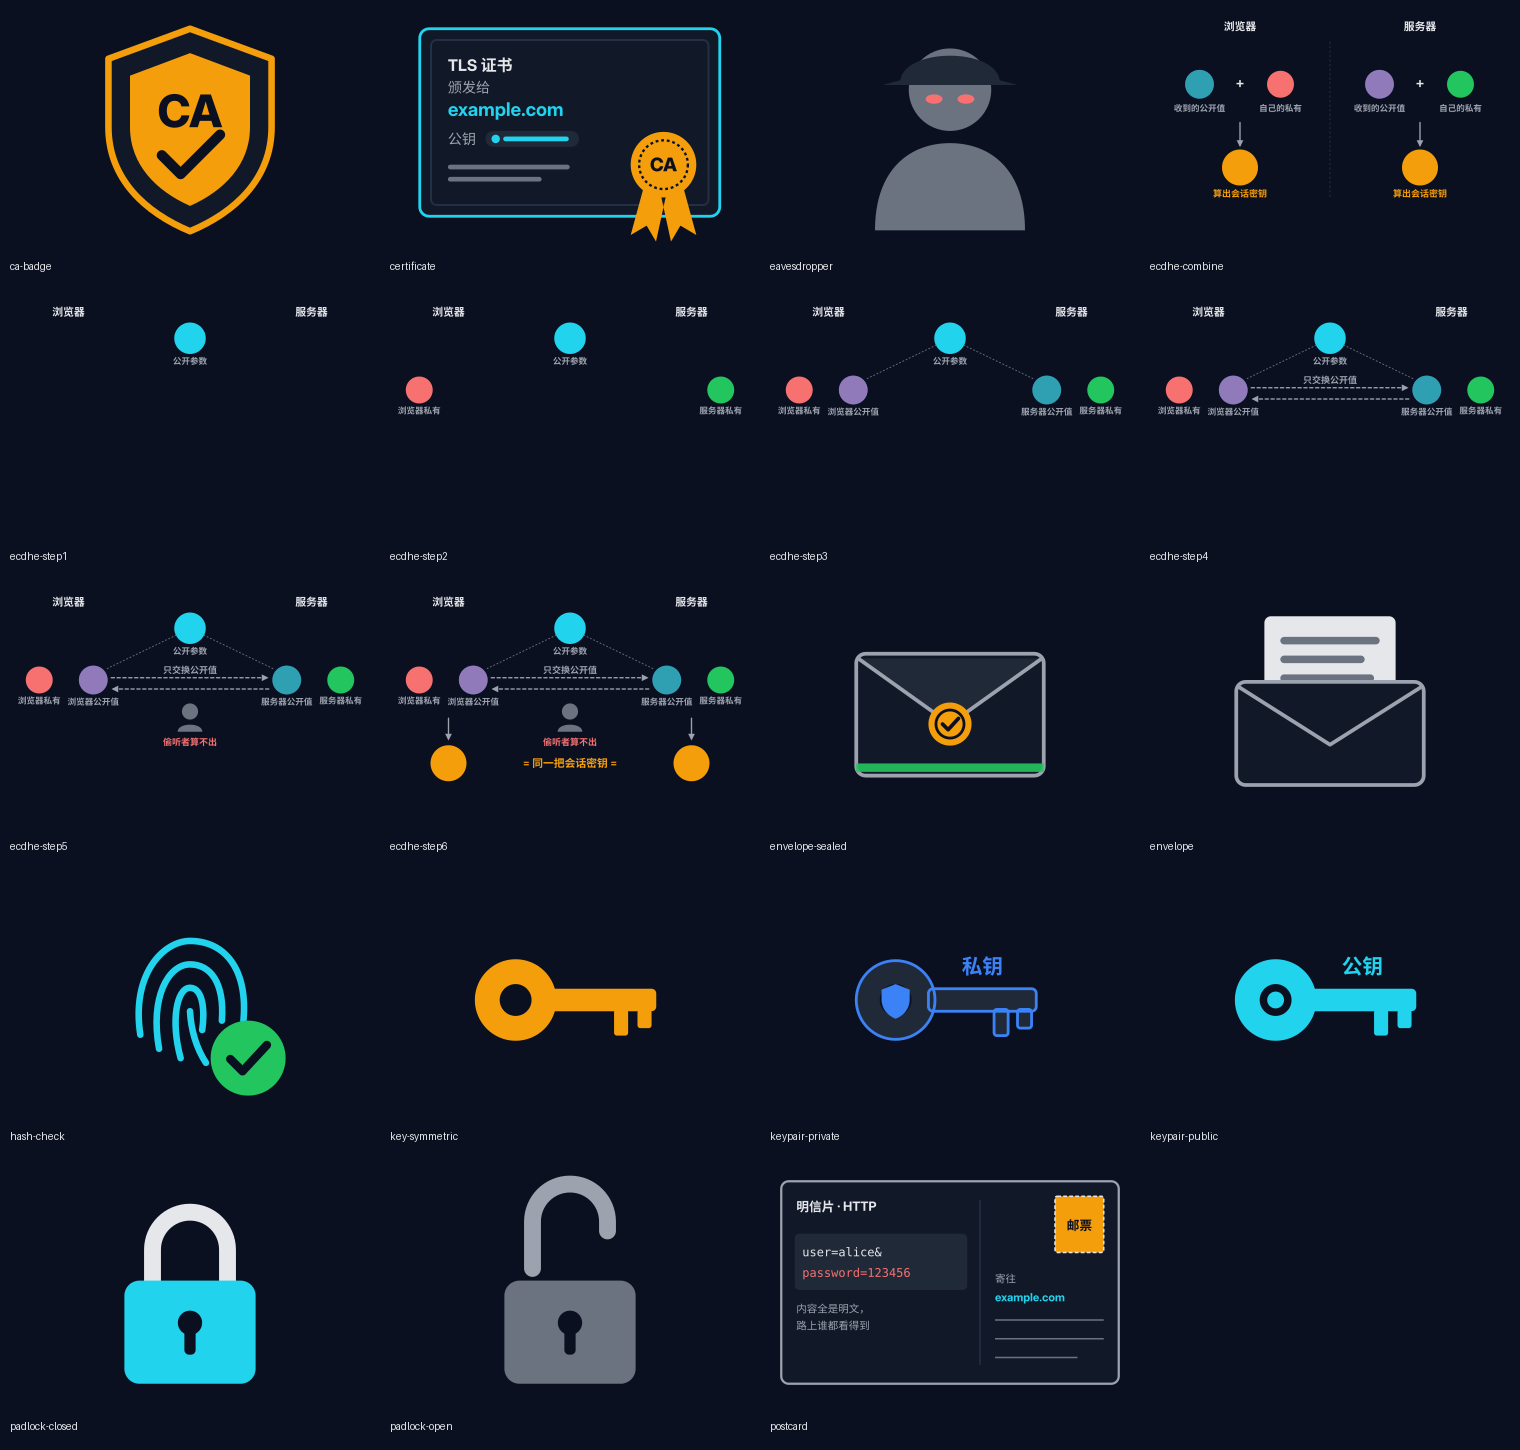
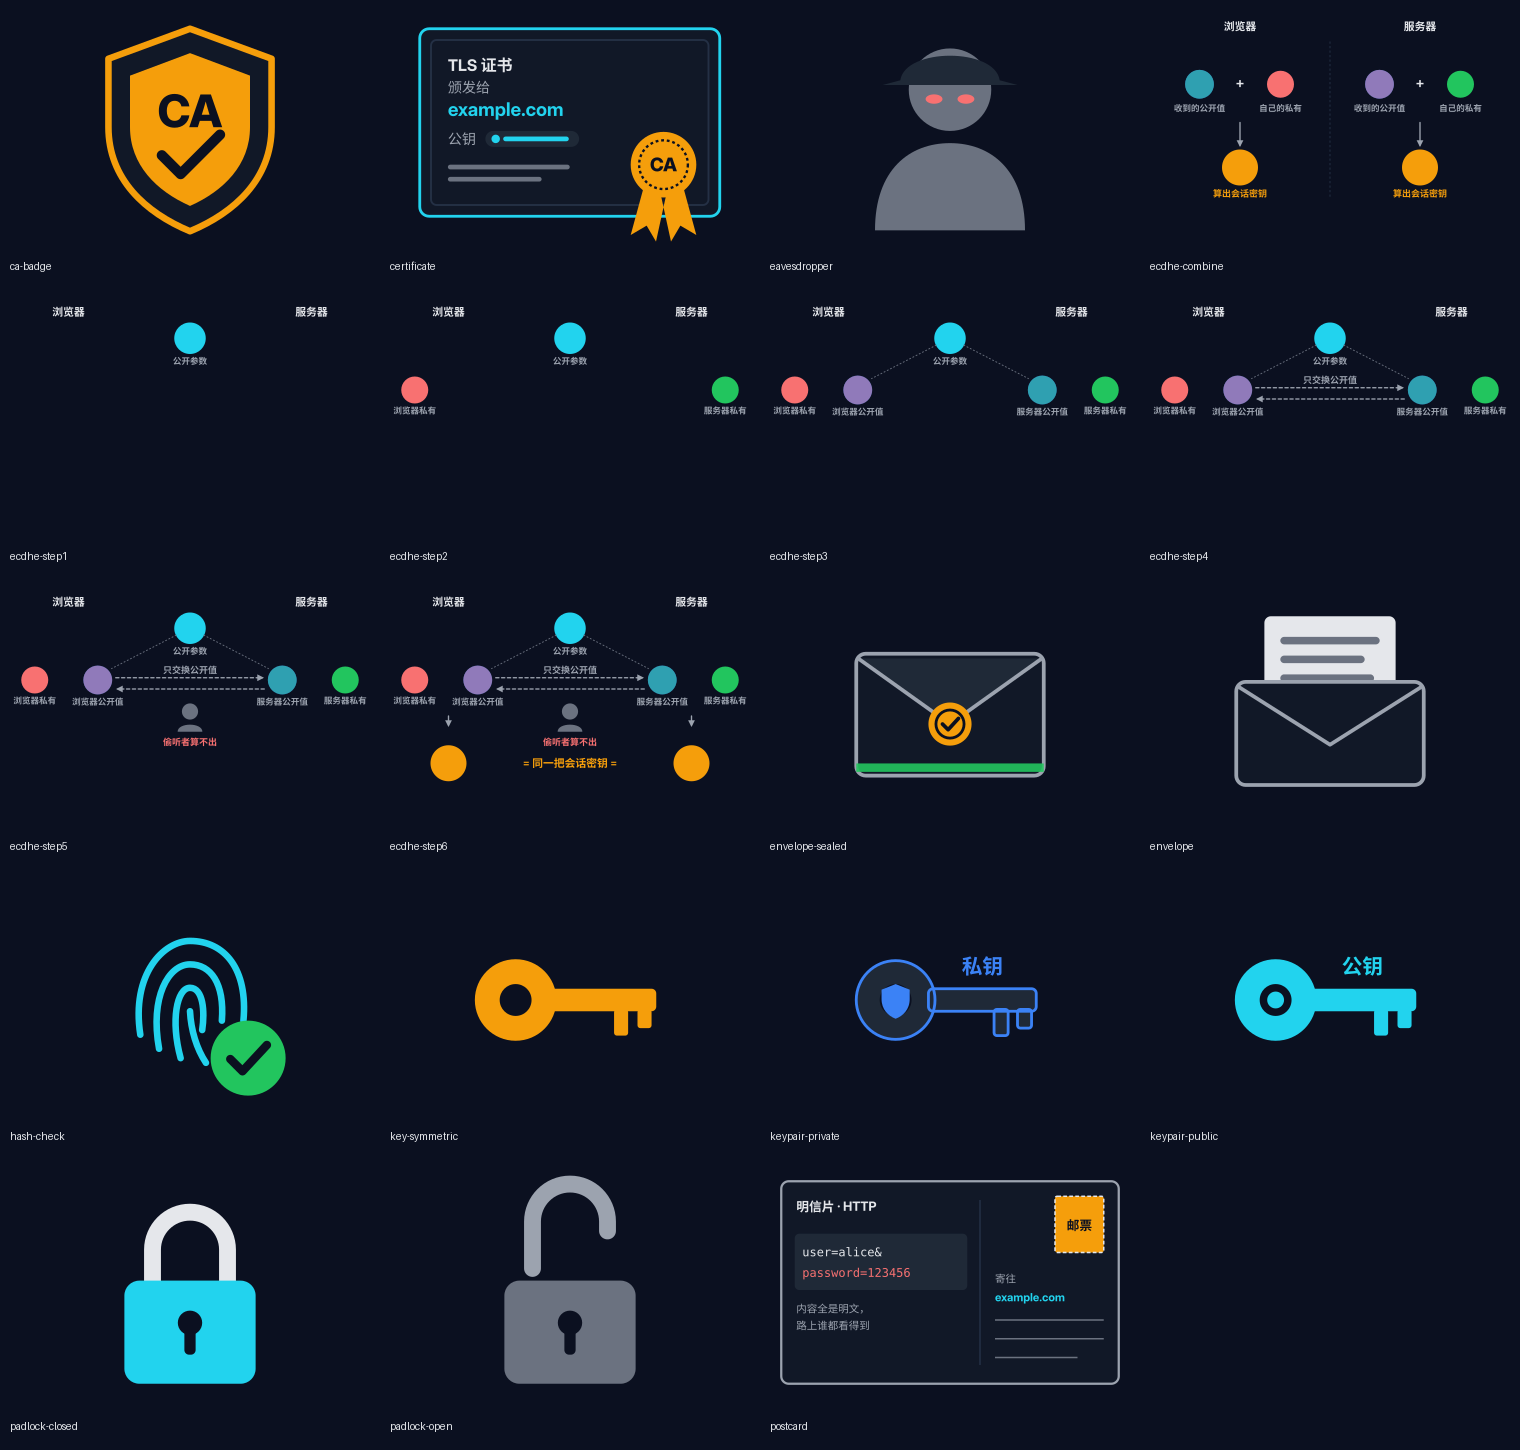
draft(https): 分镜终版修订（ECDHE 资产、storyboard、gen 脚本；移除 assets/gen_assets.py）

diff --git a/episodes/https/gen.py b/episodes/https/gen.py
@@ -52,10 +52,10 @@ def shots_for(si,L):
         a1=[fade("pairT"),fade("pubL",10,25),fade("pubT",20,32),fade("priL",L[0]//2,L[0]//2+15),fade("priT",L[0]//2+10,L[0]//2+22),mv("priL","opacity",L[0]-40,L[0]-20,1,0.7)]
         n=L[1]; sp=n-60; _s=subs(PARTS[1],n); st=_s[1]["from"]; st2=_s[2]["from"]  # 状态切点=字幕分句起点；旁白后金钥匙停 60 帧
         e2=[A("ecdheA","ecdhe-step4",226,80,1468,780,fit="contain",state="交换公开值"),A("ecdheB","ecdhe-combine",226,80,1468,780,fit="contain",state="各自把收到的公开值与自己的私有值合成"),
-            A("ecdheC","ecdhe-step6",226,80,1468,780,fit="contain",state="得到同一把金色钥匙"),A("keyGold","key-symmetric",810,250,300,300),
+            A("ecdheC","ecdhe-step6",226,80,1468,780,fit="contain",state="得到同一把金色钥匙"),A("keyL","key-symmetric",411,566,160,160),A("keyR","key-symmetric",1347,566,160,160),
             T("stA",660,100,600,50,"① 交换公开值",36,P['primary'],align="center"),T("stB",660,100,600,50,"② 各自合成",36,P['primary'],align="center"),T("stC",660,100,600,50,"③ 同一把钥匙",36,P['accent'],align="center")]
         a2=[fade("ecdheA",0,10),fade("stA",0,10),out("stA",st-6,st),fade("ecdheB",st,st+10),fade("stB",st,st+10),out("stB",st2-6,st2),
-            fade("ecdheC",st2,st2+10),fade("stC",st2,st2+10),mv("keyGold","scale",sp-20,sp,0,1,"spring"),mv("keyGold","rotate",sp,n-1,0,8)]
+            fade("ecdheC",st2,st2+10),fade("stC",st2,st2+10),mv("keyL","scale",sp-20,sp,0,1,"spring"),mv("keyR","scale",sp-20,sp,0,1,"spring"),mv("keyL","rotate",sp,n-1,0,8),mv("keyR","rotate",sp,n-1,0,8)]
         e3=[A("keyGold","key-symmetric",200,300,260,260),T("hyb1",520,300,1200,56,"非对称方式：协商出会话密钥（慢，只做一次）",40,P['primary']),A("box","envelope-sealed",520,420,240,240),T("hyb2",820,500,900,56,"对称加密：传输真正的数据（快）",40,P['success'])]
         a3=[fade("keyGold"),fade("hyb1",L[2]//4,L[2]//4+15),fade("box",L[2]//2,L[2]//2+12),fade("hyb2",L[2]//2+10,L[2]//2+25),mv("box","x",L[2]//2+30,L[2]-30,520,1440)]
         return [(e1,a1),(e2,a2),(e3,a3)]
@@ -138,7 +138,7 @@ for si,s in enumerate(narr):
     g+=D
 meta=dict(title="《HTTPS 为什么安全？》",episode=2,width=1920,height=1080,fps=30,durationInFrames=g,style="深色背景+蓝青高光扁平2D（沿用第一期）",palette=P,font="Noto Sans SC",
   safeArea=dict(margin=80,subtitleBand=[900,980],contentMaxY=860),
-  notes=f"帧数已按第一期 +19% 实测校准：timing.json 24 镜头合计 5.53 字/秒（公式 字数/4.2 的估算在 +19% 下偏长约 30%），每镜头 = round(字数/5.53×30)+30 帧停顿；scene.estimateFormulaFrames 保留原公式值供对照。配音实测后用 align.py 对齐。from 为全局帧，subtitles 与 keyframes 帧相对镜头；transition 作用于镜头出场。image 元素 asset 路径相对 episodes/https/。密钥交换按 ECDHE（ECDHE 镜头合并为 3 个关键状态 step4 / ecdhe-combine / step6，各约 1/3 旁白，旁白后金钥匙停 60 帧；step1–6 文件保留），双方交换公开参数各自算出会话密钥。画面文字为中文，英文仅 CA/TLS/HTTP/HTTPS；字幕随旁白保留 Wi-Fi、ClientHello、ServerHello、ECDHE、AEAD 原词。")
+  notes=f"帧数已按第一期 +19% 实测校准：timing.json 24 镜头合计 5.53 字/秒（公式 字数/4.2 的估算在 +19% 下偏长约 30%），每镜头 = round(字数/5.53×30)+30 帧停顿；scene.estimateFormulaFrames 保留原公式值供对照。配音实测后用 align.py 对齐。from 为全局帧，subtitles 与 keyframes 帧相对镜头；transition 作用于镜头出场。image 元素 asset 路径相对 episodes/https/。密钥交换按 ECDHE（ECDHE 镜头合并为 3 个关键状态 step4 / ecdhe-combine / step6，状态切点跟随字幕分句（约 76/70/88 帧），旁白后金钥匙停 60 帧；两把相同金钥匙 keyL(411,566) / keyR(1347,566) 各 160×160，紧贴 step6 底部两个橙色圆正上方（金色钥匙放进同色圆内看不清），呼应“= 同一把会话密钥 =”，含 8° 慢转不压文字；step1–6 文件保留），双方交换公开参数各自算出会话密钥。画面文字为中文，英文仅 CA/TLS/HTTP/HTTPS；字幕随旁白保留 Wi-Fi、ClientHello、ServerHello、ECDHE、AEAD 原词。")
 assets=dict(reuse=[dict(id="browser",desc="第一期浏览器窗口",usedIn=["plaintext","symmetric"]),dict(id="server",desc="第一期服务器图标",usedIn=["plaintext","symmetric"]),dict(id="seqDiagram",desc="第一期握手时序图样式",usedIn=["handshake"]),dict(id="subtitle",desc="字幕层")],
  new=[dict(id=f.stem,file=f"assets/{f.name}") for f in sorted((HERE/"assets").glob("*.svg")) if f.stem!="ecdhe-mix"])
 json.dump(dict(meta=meta,assets=assets,scenes=scenes),open(HERE/"storyboard.json","w"),ensure_ascii=False,indent=1)

diff --git a/episodes/https/gen_assets.py b/episodes/https/gen_assets.py
@@ -1,8 +1,10 @@
 import os
 T=dict(bg="#0B1020",surface="#111827",s2="#1F2937",border="#243045",text="#E5E7EB",text2="#9CA3AF",muted="#6B7280",primary="#22D3EE",secondary="#3B82F6",success="#22C55E",accent="#F59E0B",danger="#F87171")
 F='font-family="system-ui, -apple-system, \'PingFang SC\', \'Noto Sans CJK SC\', sans-serif"'
+OUT=os.path.join(os.path.dirname(os.path.abspath(__file__)),"assets")
+os.makedirs(OUT,exist_ok=True)
 def svg(name,vb,body):
-    open(name,"w").write(f'<svg xmlns="http://www.w3.org/2000/svg" viewBox="{vb}" width="{vb.split()[2]}" height="{vb.split()[3]}">\n{body}\n</svg>\n')
+    open(os.path.join(OUT,name),"w").write(f'<svg xmlns="http://www.w3.org/2000/svg" viewBox="{vb}" width="{vb.split()[2]}" height="{vb.split()[3]}">\n{body}\n</svg>\n')
 def key(c,stroke,x=0,y=0,id="key",teeth=True):
     return f'''<g id="{id}" transform="translate({x} {y})">
  <circle cx="140" cy="256" r="84" fill="{c}"/><circle cx="140" cy="256" r="34" fill="{T['bg']}"/>
@@ -57,11 +59,11 @@ def ecdhe(step):
     parts=[f'<defs><marker id="ah" viewBox="0 0 10 10" refX="7" refY="5" markerWidth="5" markerHeight="5" orient="auto"><path d="M0 0 L10 5 L0 10z" fill="{T['text2']}"/></marker></defs>',
       L(260,70,"浏览器",T['text'],48)+L(1340,70,"服务器",T['text'],48)]
     if step>=1: parts.append(f'<g id="shared-param">{blob(800,170,70,T["primary"],"param")}{L(800,285,"公开参数",T["text2"])}</g>')
-    if step>=2: parts.append(f'<g id="left-secret">{blob(130,400,60,T["danger"],"a-secret")}{L(130,505,"浏览器私有",T["text2"])}</g><g id="right-secret">{blob(1470,400,60,T["success"],"b-secret")}{L(1470,505,"服务器私有",T["text2"])}</g>')
-    if step>=3: parts.append(f'<g id="mix" stroke="{T["muted"]}" stroke-width="4" stroke-dasharray="8 8" fill="none"><path d="M740 200 L430 350"/><path d="M860 200 L1170 350"/></g><g id="left-public">{blob(370,400,64,T["secondary"],"a-pub")}<circle cx="370" cy="400" r="64" fill="{T["danger"]}" opacity="0.45"/>{L(370,510,"浏览器公开值",T["text2"])}</g><g id="right-public">{blob(1230,400,64,T["secondary"],"b-pub")}<circle cx="1230" cy="400" r="64" fill="{T["success"]}" opacity="0.45"/>{L(1230,510,"服务器公开值",T["text2"])}</g>')
-    if step>=4: parts.append(f'<g id="exchange" stroke-dasharray="14 12">{arrow(450,390,1140,390,T["text2"])}{arrow(1150,440,460,440,T["text2"])}</g>'+L(800,370,"只交换公开值",T["text2"],40))
+    if step>=2: parts.append(f'<g id="left-secret">{blob(110,400,60,T["danger"],"a-secret")}{L(110,505,"浏览器私有",T["text2"])}</g><g id="right-secret">{blob(1490,400,60,T["success"],"b-secret")}{L(1490,505,"服务器私有",T["text2"])}</g>')
+    if step>=3: parts.append(f'<g id="mix" stroke="{T["muted"]}" stroke-width="4" stroke-dasharray="8 8" fill="none"><path d="M740 200 L450 350"/><path d="M860 200 L1150 350"/></g><g id="left-public">{blob(390,400,64,T["secondary"],"a-pub")}<circle cx="390" cy="400" r="64" fill="{T["danger"]}" opacity="0.45"/>{L(390,510,"浏览器公开值",T["text2"])}</g><g id="right-public">{blob(1210,400,64,T["secondary"],"b-pub")}<circle cx="1210" cy="400" r="64" fill="{T["success"]}" opacity="0.45"/>{L(1210,510,"服务器公开值",T["text2"])}</g>')
+    if step>=4: parts.append(f'<g id="exchange" stroke-dasharray="14 12">{arrow(470,390,1120,390,T["text2"])}{arrow(1130,440,480,440,T["text2"])}</g>'+L(800,370,"只交换公开值",T["text2"],40))
     if step>=5: parts.append(f'<g id="eve"><circle cx="800" cy="540" r="36" fill="{T["muted"]}"/><path d="M745 630 C745 588 855 588 855 630Z" fill="{T["muted"]}"/>{L(800,690,"偷听者算不出",T["danger"],40)}</g>')
-    if step>=6: parts.append(f'<g id="left-derive">{arrow(260,570,260,660,T["text2"])}{blob(260,770,80,T["accent"],"left-key")}</g><g id="right-derive">{arrow(1340,570,1340,660,T["text2"])}{blob(1340,770,80,T["accent"],"right-key")}</g>'+L(800,785,"= 同一把会话密钥 =",T["accent"],48))
+    if step>=6: parts.append(f'<g id="left-derive">{arrow(260,560,260,600,T["text2"])}{blob(260,770,80,T["accent"],"left-key")}</g><g id="right-derive">{arrow(1340,560,1340,600,T["text2"])}{blob(1340,770,80,T["accent"],"right-key")}</g>'+L(800,785,"= 同一把会话密钥 =",T["accent"],48))
     return "\n".join(parts)
 svg("ecdhe-mix.svg","0 0 1600 900",ecdhe(6))
 for n in range(1,7): svg(f"ecdhe-step{n}.svg","0 0 1600 900",f'<rect width="1600" height="900" fill="{T["bg"]}"/>'+ecdhe(n))

diff --git a/episodes/https/assets/README.md b/episodes/https/assets/README.md
@@ -37,4 +37,41 @@
 5. `eve` 偷听者算不出
 6. `left-derive` / `right-derive` + “= 同一把会话密钥 =”
 
-字号（实测）：节点标签 38 单位，“只交换公开值”“偷听者算不出”“算出会话密钥”40，“浏览器/服务器”与结论 48，“+”64。分镜中按 1468×780 contain 放置，缩放 = min(1468/1600, 780/900) = 0.8667，屏幕最小字号 38×0.8667 ≈ 32.9px（≥28px）。第3章 ECDHE 镜头只用 3 个关键状态：step4（交换公开值）→ ecdhe-combine（各自合成）→ step6（同一把金钥匙，含偷听者算不出），切点跟随字幕分句；step1–3、5 保留备用。
+字号（实测）：节点标签 38 单位，“只交换公开值”“偷听者算不出”“算出会话密钥”40，“浏览器/服务器”与结论 48，“+”64。分镜中按 1468×780 contain 放置，缩放 = min(1468/1600, 780/900) = 0.8667，屏幕最小字号 38×0.8667 ≈ 32.9px（≥28px）。第3章 ECDHE 镜头只用 3 个关键状态：step4（交换公开值）→ ecdhe-combine（各自合成）→ step6（同一把金钥匙，含偷听者算不出；两把相同 key-symmetric 金钥匙 160×160 放在屏幕 (411,566) 与 (1347,566)，紧贴底部两个橙色圆正上方，同时弹出并慢转 8°；step6 下落箭头已缩短为 560→600 让位），切点跟随字幕分句；step1–3、5 保留备用。
+
+## storyboard.json 用到的动画属性与元素字段（按 storyboard.json 实际 grep 整理）
+
+关键帧 `frame` 相对镜头；`value` 按下表解释。
+
+| 属性 | 用于 | 含义 / 实现建议 |
+|---|---|---|
+| opacity | 全片 | 0→1 淡入 / 1→0 淡出 |
+| scale | 全片 | 缩放，以元素中心为原点；spring 用于弹出 |
+| x / y | 全片 | 元素左上角绝对坐标（px，1920×1080） |
+| rotate | keyL、keyR（asymmetric-2）、keyFly | 角度（°），中心旋转；ECDHE 状态③ 两把金钥匙各自 0→8° 慢转 |
+| charsVisible | intro-1 login | 打字机，显示前 N 个字符 |
+| drawProgress | handshake 箭头 ch / sh / data | 箭头描线 0→1（stroke-dashoffset） |
+| tamperStrip | envelope-sealed（integrity-1、recap-1 box） | `#tamper-strip` 宽度 0→100%（0→1） |
+| tamperAlarm | envelope-sealed（integrity-1 box） | 0→1：封条改 danger #F87171 并左右抖动 ±6px 约 10 帧 |
+| drawCheck | ca-badge（certificate-3 rootOk/midOk/leafOk） | `#check` 描线 stroke-dashoffset 0→1 |
+| badgeDanger | hash-check（integrity-1 hash） | 0→1：`#badge` 颜色 success → danger，勾可隐去 |
+| glowPlaintext | postcard（plaintext-2） | 0→1：`#plaintext` 外发光 danger 色并轻闪，强调明文可见 |
+
+| 元素字段 | 含义 |
+|---|---|
+| type | text / rect / image / icon / arrow / line |
+| asset | image 的 SVG 路径（相对 episodes/https/） |
+| fit | image 缩放方式；`contain` = 等比放入 w×h 并居中 |
+| tint | 给 SVG 主色整体换色（certificate-1 `fake` 公钥用 danger #F87171 表示假钥匙） |
+| state | ECDHE 状态说明（仅注释） |
+| label / note | rect、icon、arrow 上的显示文字 / 实现备注（note 不上屏） |
+| direction | arrow 方向：r 向右、l 向左、lr 双向 |
+| role=subtitle | 字幕层，固定 y 900–980 |
+| stroke / radius / align / font / fontSize | 描边色 / 圆角 / 对齐 / 字体 / 字号（px） |
+
+| icon id | 镜头 | 画法建议（无对应 SVG，Knoll 用简单矢量绘制，颜色取 color） |
+|---|---|---|
+| eye | plaintext-2 | 窃听：眼睛轮廓 + 瞳孔，danger 色 |
+| pencil | plaintext-2、integrity-1 | 篡改：斜放铅笔，danger 色；integrity-1 中向信箱移动 |
+| mask | plaintext-2 | 伪装：半脸面具，danger 色 |
+| server | plaintext-1、symmetric-2 | 复用第一期服务器图标 |
